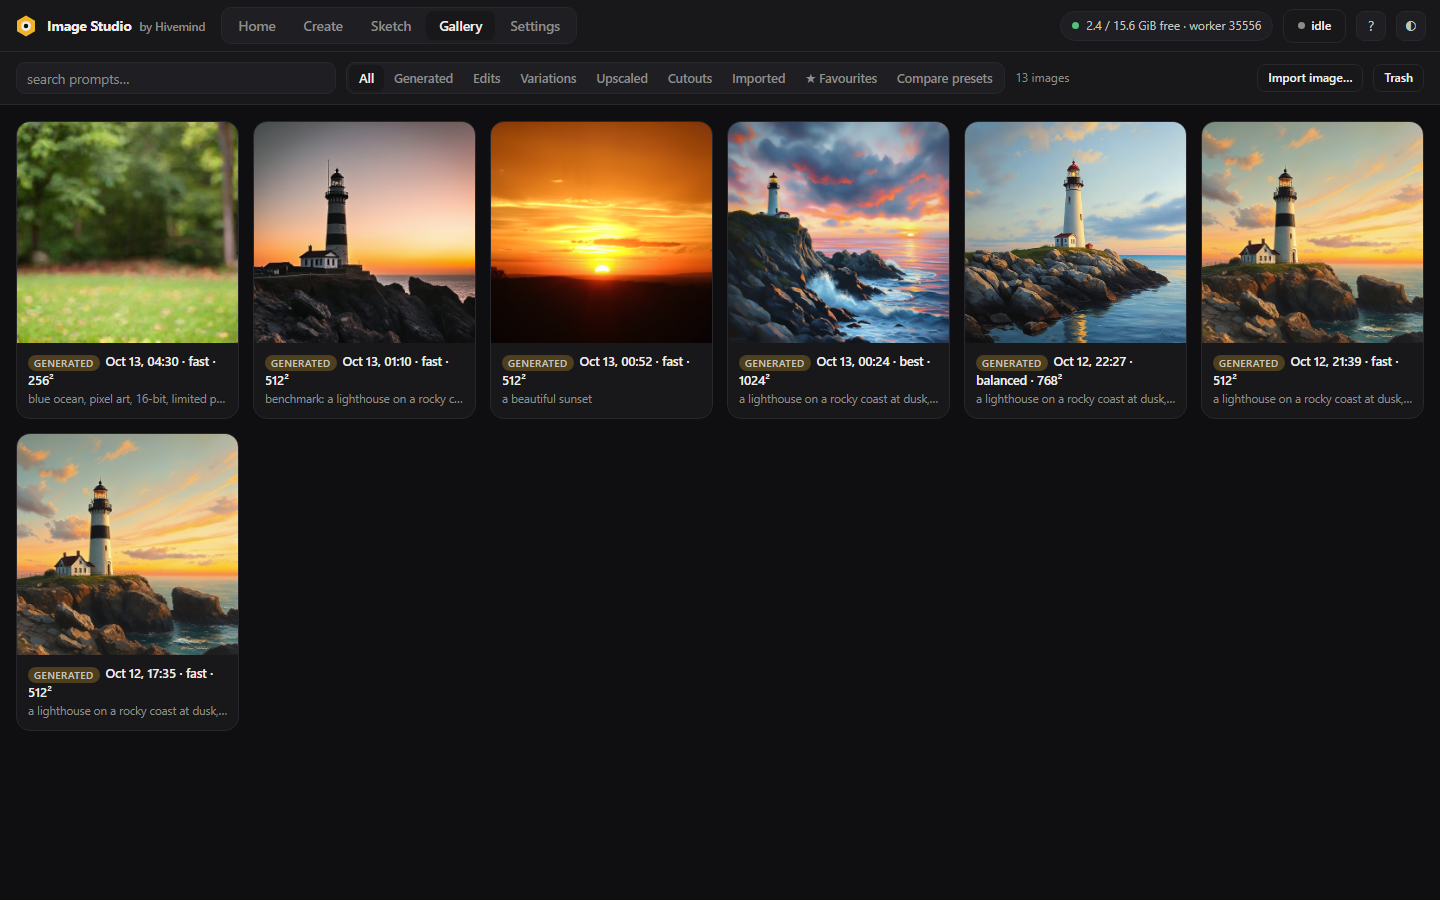
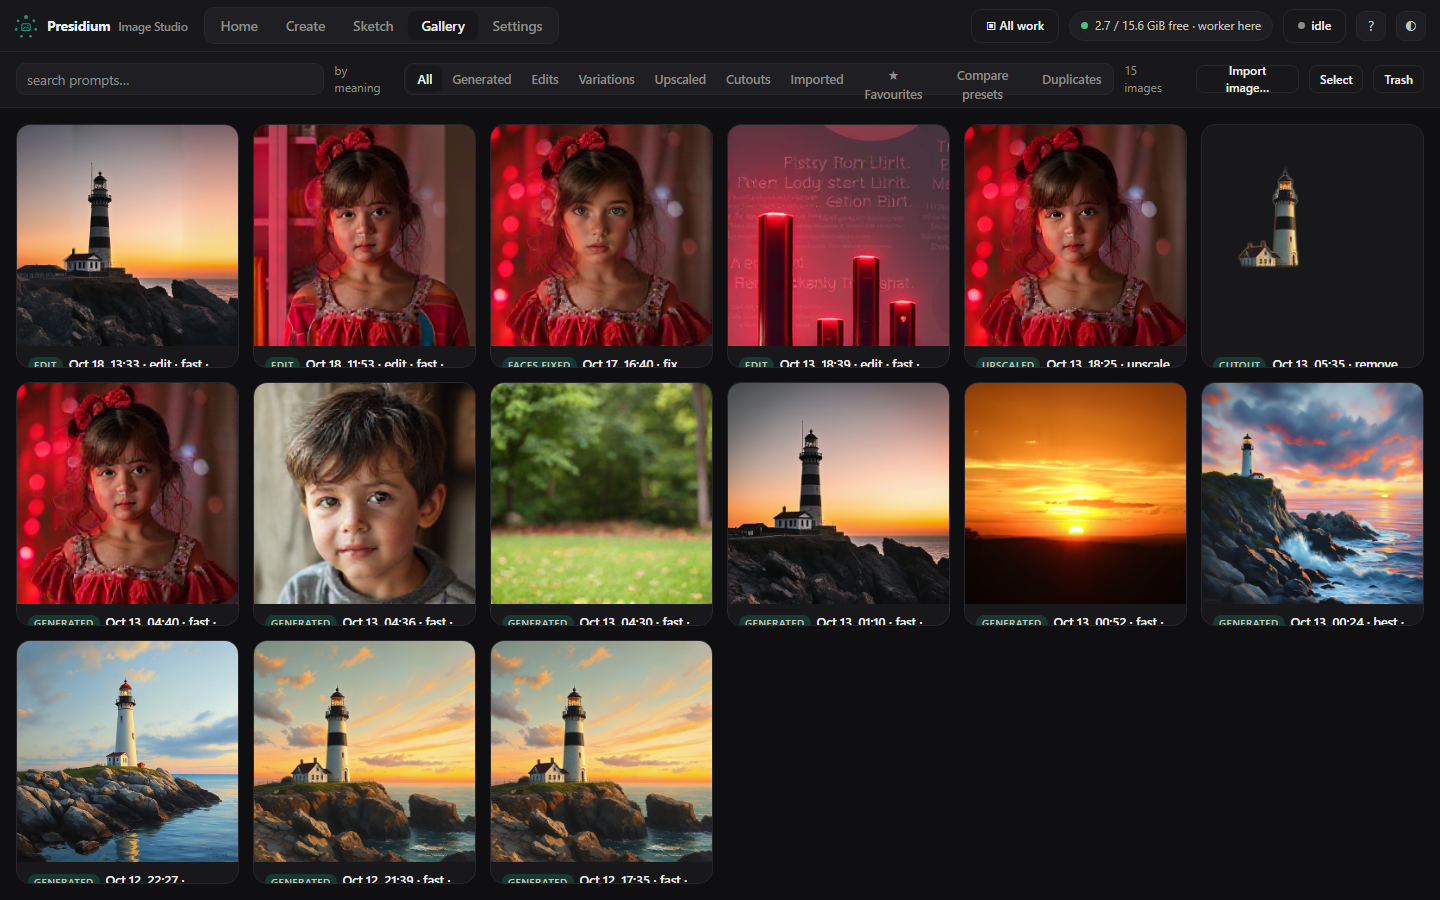
0.3.9: the Presidium release
Store listing text, branded screenshots (taken from the running studio by
packaging/screenshots.py) and the viewer subline fix for tool jobs.

diff --git a/src/imagestudio/static/index.html b/src/imagestudio/static/index.html
@@ -1052,7 +1052,7 @@
     $("descNote").textContent = vmOk ? "" : "Needs the vision engine and a vision model (Machine tab)."; $("descOut").style.display = j.caption ? "" : "none"; $("descOut").textContent = j.caption || ""; $("descActs").style.display = j.caption ? "" : "none"; S.descText = j.caption || ""; $("descQ").value = "";
     $("lbReuse").style.display = j.reproducible_prompt ? "" : "none";
     const em = (S.caps.models || []).find(m => m.name === S.caps.edit_model); $("edStr").style.display = em ? "none" : ""; $("edV").style.display = em ? "none" : ""; $("edBtn").textContent = em ? `Edit with ${em.display_name.split(" ")[0]}` : "Edit"; $("edNote").textContent = em ? `${em.display_name} edits by instruction and keeps what you do not mention. Painting a mask switches to image-to-image on the base model.` : S.caps.edit_model_note ? S.caps.edit_model_note : "No edit model installed: edits are image-to-image on the base model at the chosen strength. Qwen-Image-Edit needs about 15 GiB of memory even in its smallest set; on machines where it fits, install it from Settings.";
-    if (j.tool !== "generate") $("lbSub").textContent = `${j.tool.replace("_", " ")} · ${j.tool_model} · ${j.width}×${j.height} · ${fmtDur(j.total_seconds)}${j.source_job ? " · from " + (S.jobs.find(x => x.id === j.source_job)?.title || j.source_job) : ""}`;
+    if (j.tool !== "generate") $("lbSub").textContent = `${j.tool.replace("_", " ")} · ${j.tool_model || (j.model !== "-" ? j.model + " [" + j.variant + "]" : "")} · ${j.width}×${j.height} · ${fmtDur(j.total_seconds)}${j.source_job ? " · from " + (S.jobs.find(x => x.id === j.source_job)?.title || j.source_job) : ""}`;
   }
   function fillTools(j) {
     const tools = (S.caps && S.caps.tools) || []; const up = tools.filter(t => t.kind === "upscaler"), bg = tools.filter(t => t.kind === "background");

diff --git a/packaging/screenshots.py b/packaging/screenshots.py
@@ -1,0 +1,70 @@
+"""Store and website screenshots of the running studio, 1440x900 PNG, taken with Playwright.
+
+    python packaging/screenshots.py [http://127.0.0.1:8766]
+
+Writes site/assets/shot-*.png (the website) and packaging/store-screenshots/*.png (Partner
+Center). Needs a studio with a few finished images in its gallery; the gallery, viewer and
+settings shots show real content, never mock-ups."""
+
+# Copyright 2026 Ratul Roy (royal-programmer) and the Presidium contributors
+# SPDX-License-Identifier: Apache-2.0
+
+from __future__ import annotations
+
+import sys
+import time
+from pathlib import Path
+
+ROOT = Path(__file__).resolve().parents[1]
+OUT_SITE = ROOT / "site" / "assets"
+OUT_STORE = ROOT / "packaging" / "store-screenshots"
+SIZE = {"width": 1440, "height": 900}
+
+
+def main(url: str) -> int:
+    from playwright.sync_api import sync_playwright
+
+    OUT_STORE.mkdir(parents=True, exist_ok=True)
+    with sync_playwright() as pw:
+        browser = pw.chromium.launch()
+        page = browser.new_page(viewport=SIZE, color_scheme="dark")
+        page.goto(url)
+        page.wait_for_selector("body[data-booted]", state="attached", timeout=60000)
+
+        def shot(name: str) -> None:
+            time.sleep(0.6)
+            for folder in (OUT_SITE, OUT_STORE):
+                page.screenshot(path=str(folder / f"shot-{name}.png"))
+            print(f"shot-{name}.png")
+
+        page.click('#tabs button[data-tab="create"]')
+        page.fill(
+            "#prompt",
+            "a red fox on a mossy log in a misty pine forest at sunrise, soft golden light",
+        )
+        page.dispatch_event("#prompt", "input")
+        time.sleep(1.5)  # the plan and estimate arrive
+        shot("create")
+        page.click('#tabs button[data-tab="home"]')
+        shot("home")
+        page.click('#tabs button[data-tab="gallery"]')
+        time.sleep(1.2)  # thumbnails
+        shot("gallery")
+        cards = page.query_selector_all("#grid .card")
+        if cards:
+            cards[0].click()
+            page.wait_for_selector("#lb[open]")
+            time.sleep(1.2)
+            shot("viewer")
+            page.keyboard.press("Escape")
+        page.click('#tabs button[data-tab="sketch"]')
+        shot("sketch")
+        page.click('#tabs button[data-tab="machine"]')
+        time.sleep(1.2)
+        shot("settings")
+        browser.close()
+    return 0
+
+
+if __name__ == "__main__":
+    raise SystemExit(main(sys.argv[1] if len(sys.argv) > 1 else "http://127.0.0.1:8766"))

diff --git a/src/imagestudio/__init__.py b/src/imagestudio/__init__.py
@@ -2,4 +2,4 @@
 # Copyright 2026 Ratul Roy (royal-programmer) and the Presidium contributors
 # SPDX-License-Identifier: Apache-2.0
 
-__version__ = "0.3.8"
+__version__ = "0.3.9"

diff --git a/packaging/listing.md b/packaging/listing.md
@@ -1,0 +1,67 @@
+# Presidium Image Studio · Store listing (copy-paste)
+
+Update submission under the existing product. Package identity, publisher display name and
+age ratings unchanged. Everything below is new text or a new URL.
+
+## Display name
+Presidium Image Studio
+
+## Short description (≤ 200 chars)
+Your own image studio. Create, edit, extend, restyle, upscale, cut out, repair faces and search pictures with free, permissively licensed models, entirely on your PC.
+
+## Feature bullets (up to five)
+- Create from text or a template, with a prompt assistant and a live preview; one-click looks turn any picture into a sketch, watercolour, anime, pixel art and more.
+- Edit by instruction or inside a painted mask, extend the canvas, fix faces, make variations.
+- Upscale 4× or 16×, remove backgrounds, describe images, search your gallery by meaning.
+- Projects with zip and web-page export; every PNG carries its full recipe.
+- Everything runs on your own machine, offline after setup, with permissively licensed models only; an MCP server is built in for AI agents.
+
+## Description (≤ 10,000 chars)
+Presidium Image Studio is a complete image studio that runs on your own computer. Nothing is uploaded, nothing is paid for, and there is no account.
+
+WHAT IT DOES
+• Create images from text with FLUX.1 schnell or Qwen-Image, with a live preview while they render.
+• Start from a template (product shot, social post with text, portrait, logo concept, wallpaper, thumbnail, poster, pattern) or let the prompt assistant turn a few plain words into a full prompt.
+• Turn any picture into a look with one click: pencil sketch, watercolour, oil, anime, pixel art, claymation, film noir and more, or your own saved styles.
+• Edit by instruction ("the same scene at night, lit windows"), repaint only a painted mask, remove an object, or make variations. Extend the canvas to a new shape. Fix faces so eyes and skin come out sharp.
+• Sketch to image: draw a rough layout, describe it, let the model paint it.
+• Upscale 4× or 16× with Real-ESRGAN. Remove backgrounds to a transparent PNG in seconds.
+• Image to text: captions, alt text, tags, or "write the prompt that would make this", with a local vision model. Search the gallery by meaning.
+• Organise work in projects, see every version of an image with what changed, run tools on a selection, and export a project as a zip or a one-file web page.
+• Use it from your phone on your own network: scan a QR code, and the full studio is on your phone, including the camera.
+• An MCP server is built in, so AI agents and tools that speak MCP can use the studio too.
+
+QUALITY IS A SETTING, NEVER A CONSEQUENCE
+Most local tools quietly give you less when your machine is small. This one does not. The default is the best your machine can do, at full resolution and full steps; the machine decides how long it takes, not how good it looks. Before you commit, the studio tells you the expected time, measured on your own hardware. Faster presets exist and each states its trade-off plainly. If a setting will not fit in memory, the studio says so instead of pretending.
+
+PERMISSIVE LICENCES ONLY
+FLUX.1 schnell, Qwen-Image, Qwen-Image-Edit, Real-ESRGAN, IS-Net, U²-Net, Qwen2.5-VL, CLIP and UltraFace: Apache-2.0, MIT or BSD throughout. Models with non-commercial or revenue-gated terms are excluded by policy. The studio itself is open source (Apache-2.0).
+
+YOUR MACHINE, YOUR FILES
+Models are downloaded only when you ask, pinned by SHA-256, and stored in your user profile. After setup the studio works offline. Every finished PNG carries its full recipe, so any image can be reproduced exactly. Bring your own models and LoRA files if you have them.
+
+WHAT TO EXPECT
+A 16 GB laptop without a discrete GPU renders a full-quality image in about an hour on the CPU build and roughly half that with the Vulkan build on integrated graphics; the studio measures this and shows it before each run. A desktop with a discrete GPU takes minutes. The first run downloads about 10 GB of model files with your consent.
+
+Presidium Image Studio · made with ♥ by Ratul Roy (royal-programmer).
+
+## URLs
+- Privacy policy: https://presidiumdev.github.io/presidium-imagestudio/privacy.html
+- Website: https://presidiumdev.github.io/presidium-imagestudio/
+- Support: https://github.com/presidiumdev/presidium-imagestudio/issues
+
+## Search terms (≤ 7, each ≤ 30 chars)
+image generation; stable diffusion; FLUX; local AI; outpainting; upscale; background remover
+
+## Copyright and trademark
+Copyright © 2026 Ratul Roy and the Presidium contributors. "Presidium" and "Presidium Image Studio" are trademarks of Ratul Roy.
+
+## What's new in this version
+Presidium Image Studio is the new name of Image Studio by Hivemind. New: templates, a prompt assistant, one-click looks, canvas extension, face repair, search by meaning, projects with export, batch tools, and an agents page for MCP clients. Everything still runs on your machine.
+
+## Screenshots (1440×900 PNG)
+packaging/store-screenshots/shot-create.png · shot-home.png · shot-gallery.png · shot-viewer.png · shot-sketch.png · shot-settings.png
+Captions: "Create: prompt, settings, live preview and queue" · "Home: templates and tools" · "Gallery: projects, search by meaning, batch tools" · "Viewer: looks, edit, extend, tools, versions" · "Sketch: a purpose-built canvas" · "Settings: benchmark, memory, models and engines"
+
+## Store artwork
+packaging/store-assets/ (box art, poster, hero, display icons), regenerated from the Presidium mark by `python -m imagestudio.brand .`

diff --git a/CHANGELOG.md b/CHANGELOG.md
@@ -4,7 +4,7 @@ All notable changes to Hivemind Image Studio. The format follows Keep a Changelo
 follow semantic versioning. Official builds: GitHub Releases and the `hivemind-imagestudio`
 package on PyPI.
 
-## Unreleased
+## 0.3.9 — 2026-10-19
 
 ### Changed
 - Renamed to **Presidium Image Studio** with the Presidium mark (six seats around one table,
